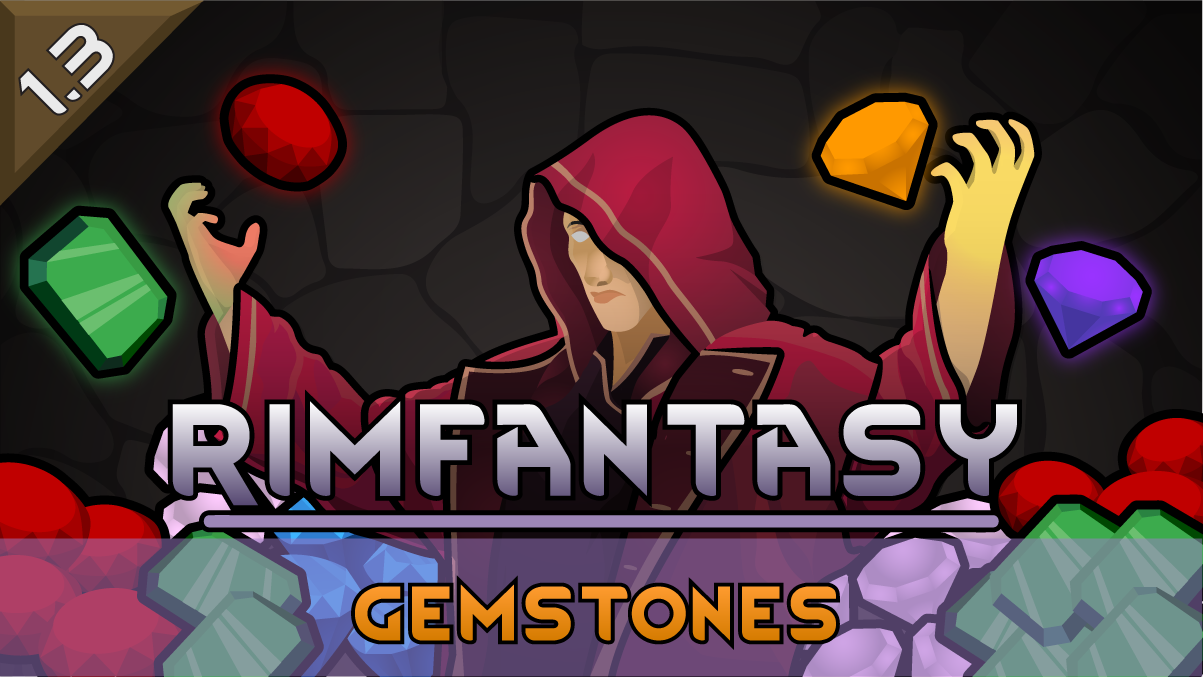
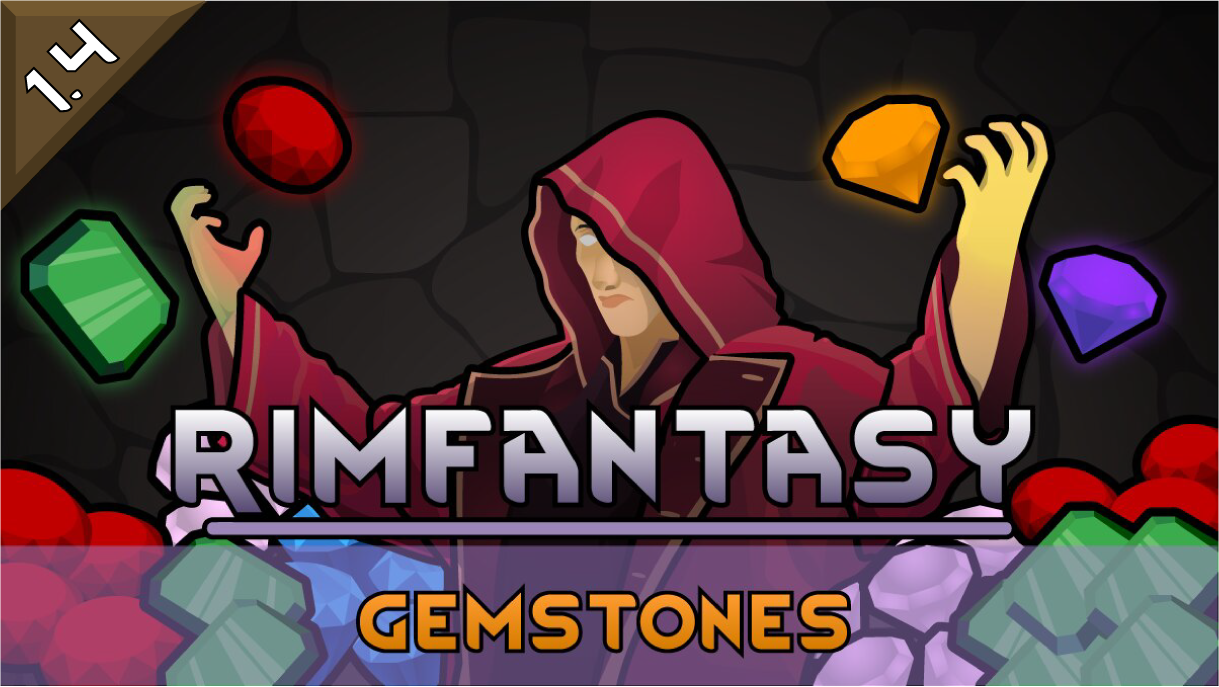
RimWorld 1.4 Update (v1.2 Update)

diff --git a/README.md b/README.md
@@ -23,7 +23,7 @@ Balance feedbacks are welcomed, please provide context when doing so.
 
 ### Links
 
-- [Current Version](https://github.com/Sierra0001/RimFantasy---Gemstones/releases/tag/v1.1.1)
+- [Current Version](https://github.com/Sierra0001/RimFantasy---Gemstones/releases/tag/v1.2)
 - [Steam](https://steamcommunity.com/sharedfiles/filedetails/?id=2630669656)
 - [GitHub](https://github.com/Sierra0001/RimFantasy---Gemstones)
 
@@ -34,4 +34,4 @@ Taranchuk for his C# code magic that allows for various fancy features.
 
 ### Latest Changes
 
-- [Change] Changed bulk cutting recipes from x10 to x5.
+- [RimWorld 1.4] RimWorld 1.4 Ready.
